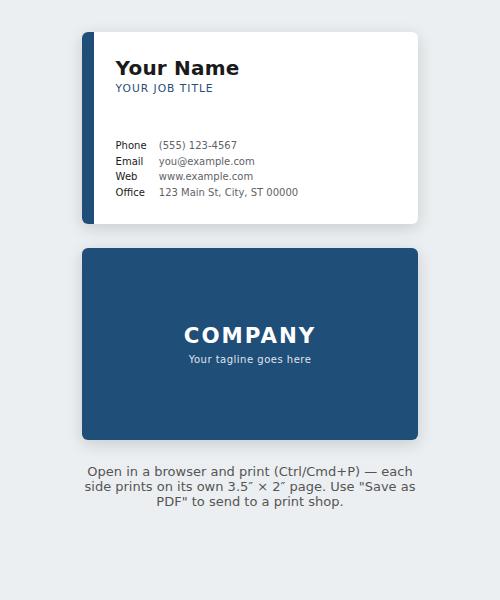
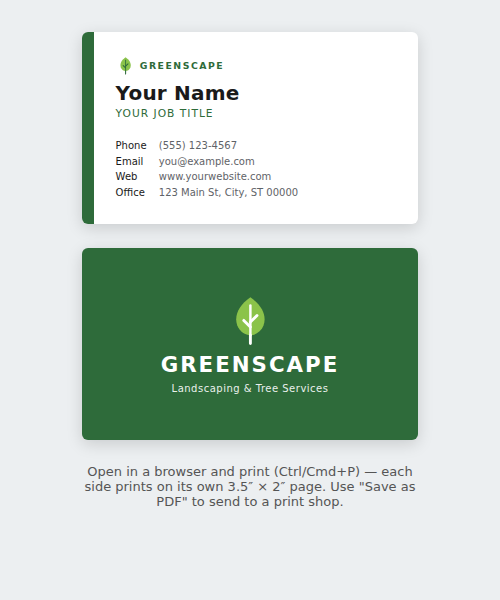
Brand business card for Greenscape
Claude-Session: https://claude.ai/code/session_01QeehZ7rWas6iUypU995AKR

Changed region(s): [[0.15, 0.06, 0.84, 0.75], [0.24, 0.09, 0.48, 0.21], [0.36, 0.27, 0.54, 0.3]]

diff --git a/business-card.html b/business-card.html
@@ -3,13 +3,14 @@
 <head>
 <meta charset="utf-8">
 <meta name="viewport" content="width=device-width, initial-scale=1">
-<title>Business Card</title>
+<title>Greenscape Business Card</title>
 <link rel="preconnect" href="https://fonts.googleapis.com">
 <link href="https://fonts.googleapis.com/css2?family=Inter:wght@400;500;700&display=swap" rel="stylesheet">
 <style>
   /* Edit these to restyle the card */
   :root {
-    --accent: #1f4e79;
+    --accent: #2e6b3a;
+    --accent-light: #8bc34a;
     --ink: #1a1a1a;
     --muted: #5f6368;
     --paper: #ffffff;
@@ -48,8 +49,11 @@
 
   /* Back */
   .back { background: var(--accent); color: #fff; display: flex; flex-direction: column; align-items: center; justify-content: center; text-align: center; gap: 6px; }
+  .logo { width: 0.55in; height: 0.55in; }
   .company { font-size: 16pt; font-weight: 700; letter-spacing: 2px; text-transform: uppercase; }
-  .tagline { font-size: 7.5pt; opacity: .85; letter-spacing: .5px; }
+  .tagline { font-size: 7.5pt; opacity: .9; letter-spacing: .5px; }
+  .brand { display: flex; align-items: center; gap: 5px; font-size: 7pt; font-weight: 700; letter-spacing: 1.5px; color: var(--accent); text-transform: uppercase; }
+  .brand svg { width: 0.2in; height: 0.2in; }
 
   .hint { font-size: 13px; color: #555; max-width: 3.5in; text-align: center; }
 
@@ -67,21 +71,23 @@
   <!-- FRONT: replace the placeholder text below -->
   <div class="card front">
     <div>
-      <div class="name">Your Name</div>
+      <div class="brand"><svg viewBox="0 0 64 64" aria-hidden="true"><path d="M32 4 C18 14 12 26 16 38 C19 46 26 50 32 50 C38 50 45 46 48 38 C52 26 46 14 32 4 Z" fill="#8bc34a"/><path d="M32 50 V60 M32 40 L24 32 M32 34 L40 26" stroke="#2e6b3a" stroke-width="3.5" stroke-linecap="round" fill="none"/><path d="M32 14 V50" stroke="#2e6b3a" stroke-width="3" stroke-linecap="round"/></svg> Greenscape</div>
+      <div class="name" style="margin-top:6px">Your Name</div>
       <div class="title">Your Job Title</div>
     </div>
     <ul class="contact">
       <li><b>Phone</b>(555) 123-4567</li>
       <li><b>Email</b>you@example.com</li>
-      <li><b>Web</b>www.example.com</li>
+      <li><b>Web</b>www.yourwebsite.com</li>
       <li><b>Office</b>123 Main St, City, ST 00000</li>
     </ul>
   </div>
 
   <!-- BACK -->
   <div class="card back">
-    <div class="company">Company</div>
-    <div class="tagline">Your tagline goes here</div>
+    <svg class="logo" viewBox="0 0 64 64" aria-hidden="true"><path d="M32 4 C18 14 12 26 16 38 C19 46 26 50 32 50 C38 50 45 46 48 38 C52 26 46 14 32 4 Z" fill="#8bc34a"/><path d="M32 50 V60 M32 40 L24 32 M32 34 L40 26" stroke="#ffffff" stroke-width="3.5" stroke-linecap="round" fill="none"/><path d="M32 14 V50" stroke="#ffffff" stroke-width="3" stroke-linecap="round"/></svg>
+    <div class="company">Greenscape</div>
+    <div class="tagline">Landscaping &amp; Tree Services</div>
   </div>
 
   <p class="hint">Open in a browser and print (Ctrl/Cmd+P) — each side prints on its own 3.5″ × 2″ page. Use "Save as PDF" to send to a print shop.</p>
